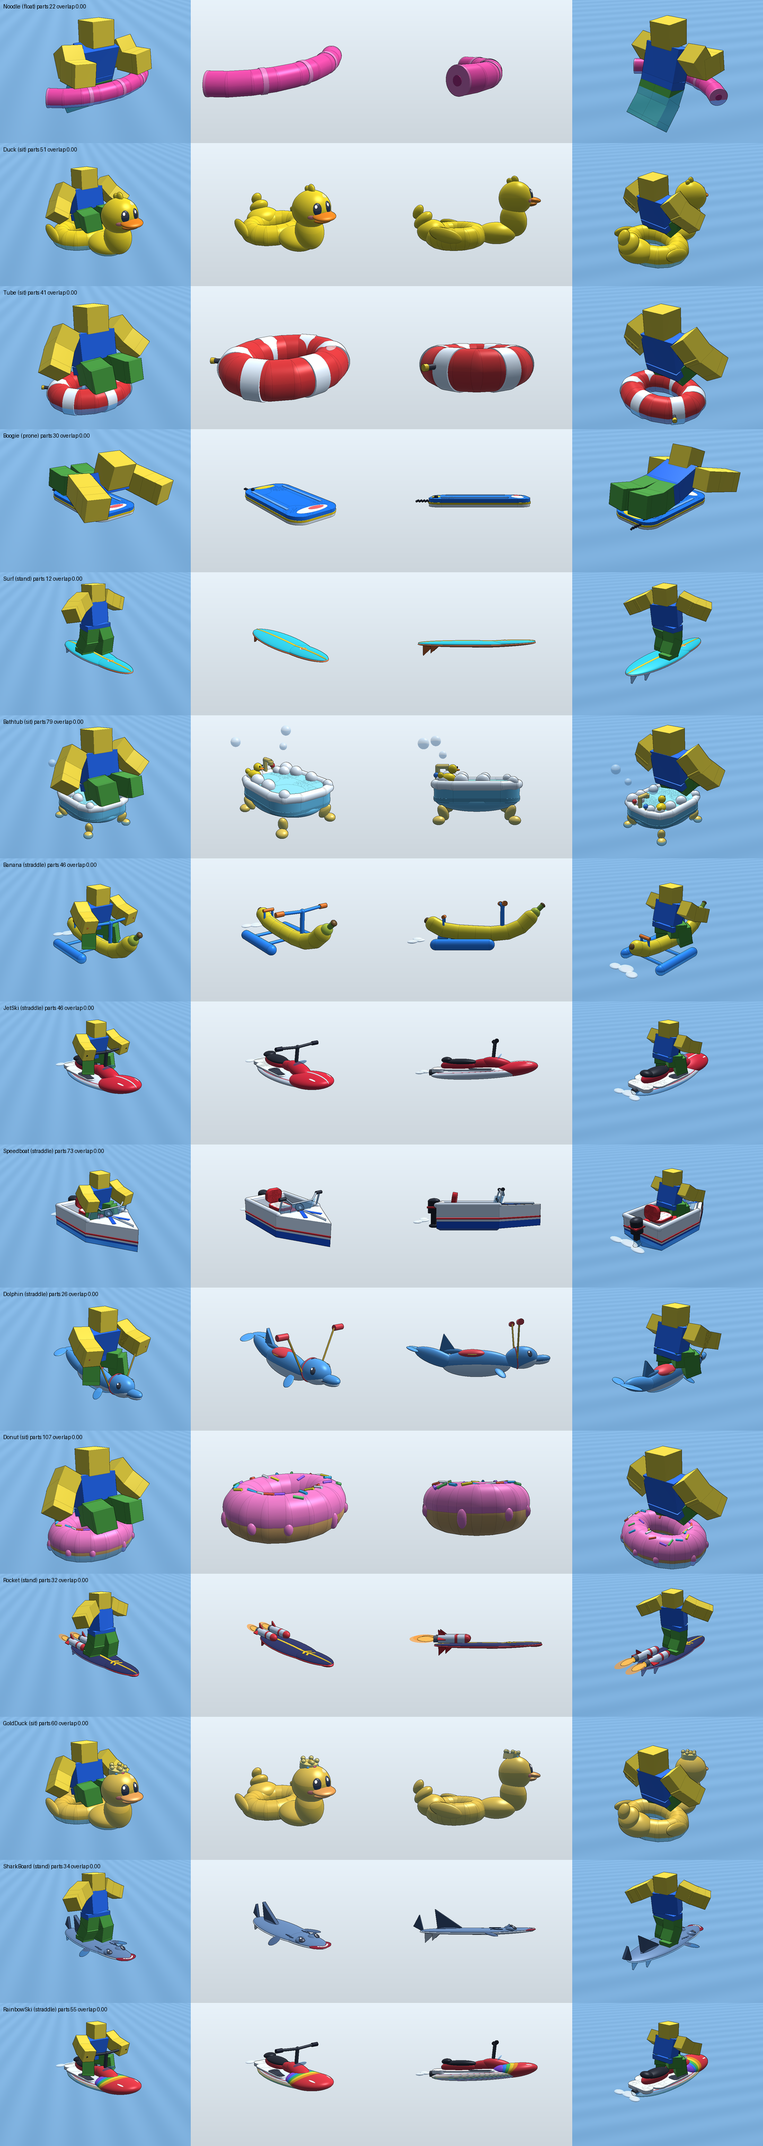
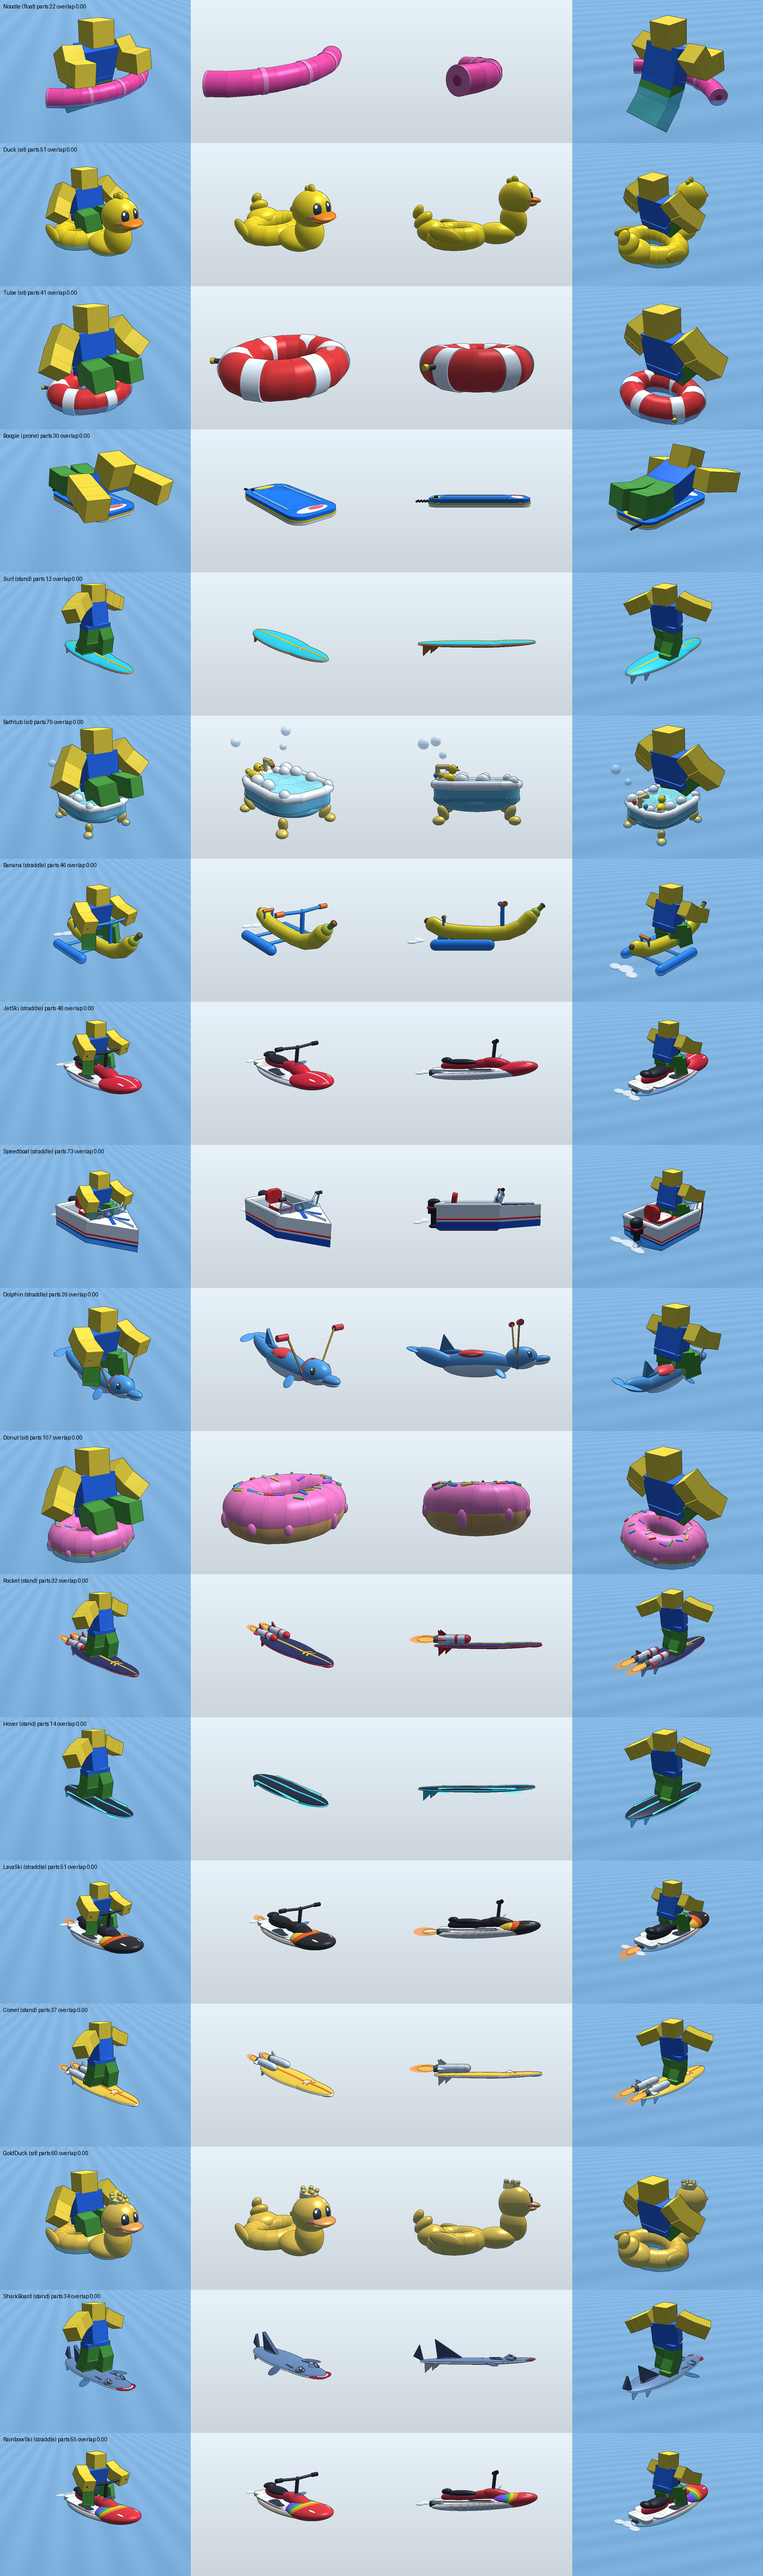
Three new zones, scaling rebirths, rebirth wakes, scarier early sharks
- Zones past the Abyss: Frozen Sea (60K), Volcano Vents (150K), Lost City
  (350K), each with 5 new creatures (45 in the Index), its own shark
  (Frost / Magma / King: tinted real rigs, part fallback), floor, water
  and scenery (icebergs + ice crystals, lava vents, marble columns)
- Rides after the Rocket: Hover Board, Lava Jet, Golden Comet
- Rebirth goal grows: The Abyss, then one zone further each time, then
  x2; HUD goal bar targets this run's rebirth speed
- Rebirth tiers color your wake for everyone (cyan, green, purple, pink,
  red); VIP now gets the promised gold wake + a VIP tag
- Sharks per zone: Coral Reef / Kelp Forest circle less and leap from
  further (aggro), the Lagoon a little gentler
- Pacing: Donut 70M, Rocket 200M, offline cash 7% for up to 4 h, so
  returning players don't buy two rides at once (audit rerun)
- Index zone tabs scroll sideways

Claude-Session: https://claude.ai/code/session_016U2BGmH486bstMbB3DLGUL

diff --git a/tools/balance/audit.py b/tools/balance/audit.py
@@ -16,20 +16,28 @@ then replace the guesses with real analytics after launch.
 """
 import json, math, random, statistics, sys
 
-ZONES = [  # id, gate, length, value
-    ("Lagoon", 0, 260, 1), ("Coral Reef", 100, 400, 5), ("Kelp Forest", 500, 560, 25),
-    ("Shipwreck Bay", 1000, 720, 120), ("Deep Blue", 5000, 1000, 600), ("The Abyss", 25000, 1400, 3000),
+ZONES = [  # id, gate, length, value, shark aggro
+    ("Lagoon", 0, 260, 1, 0.85), ("Coral Reef", 100, 400, 5, 1.3), ("Kelp Forest", 500, 560, 25, 1.25),
+    ("Shipwreck Bay", 1000, 720, 120, 1), ("Deep Blue", 5000, 1000, 600, 1), ("The Abyss", 25000, 1400, 3000, 1),
+    ("Frozen Sea", 60000, 1500, 15000, 1.1), ("Volcano Vents", 150000, 1600, 75000, 1.15), ("Lost City", 350000, 1800, 375000, 1.2),
 ]
 RIDES = [(0, 1), (30, 2), (500, 3), (2500, 4), (10000, 5), (40000, 7), (160000, 9), (600000, 12),
-         (2400000, 16), (9000000, 22), (35000000, 30), (130000000, 40)]
+         (2400000, 16), (9000000, 22), (70000000, 30), (200000000, 40),
+         (900000000, 55), (4000000000, 75), (18000000000, 100)]
 RIDE_NAMES = ["Pool Noodle", "Rubber Duck", "Inner Tube", "Boogie Board", "Surfboard", "Bathtub",
-              "Banana Boat", "Jet Ski", "Speedboat", "Dolphin", "Giant Donut", "Rocket Surfboard"]
+              "Banana Boat", "Jet Ski", "Speedboat", "Dolphin", "Giant Donut", "Rocket Surfboard",
+              "Hover Board", "Lava Jet", "Golden Comet"]
+REBIRTH_STEPS = [25000, 60000, 150000, 350000]
+
+
+def rebirth_speed(n):
+    return REBIRTH_STEPS[n] if n < len(REBIRTH_STEPS) else REBIRTH_STEPS[-1] * 2 ** (n - len(REBIRTH_STEPS) + 1)
 RAR = [("Common", 60, 1, 1), ("Uncommon", 25, 2.5, 2), ("Rare", 10, 6, 3), ("Epic", 4, 25, 4), ("Legendary", 1, 120, 5)]
 SLOT_PRICES = [400, 2000, 8000, 30000, 120000, 500000, 2000000, 8000000]
 LUCK, FRENZY_LUCK = 0.05, 0.30
 REBIRTH = 25000
 CYCLE, FIRST, WARN, HUNT = 80, 70, 5, 22
-OFFLINE_RATE, OFFLINE_HOURS = 0.1, 8
+OFFLINE_RATE, OFFLINE_HOURS = 0.07, 4
 
 PROFILES = {
     "ideal": dict(eff=1.35, idle=0.08, hide=0.55, eaten=0.10, first_catch=25, drill=22, drill_fail=0.15,
@@ -150,7 +158,7 @@ def simulate(profile, seed, minutes, sessions=None):
                 trip += left * 0.7  # wait it out on an island / the sand
             else:
                 luck += FRENZY_LUCK  # stays out for the luckier grabs
-                if rng.random() < P["eaten"]:
+                if rng.random() < min(0.9, P["eaten"] * z[4] ** 2):
                     eaten = True
                     trip += 4
         speed += RIDES[ride][1] * (1.5 ** rebirths) * trip
@@ -184,8 +192,8 @@ def simulate(profile, seed, minutes, sessions=None):
             c, s = index_reward(zi, ri)
             coins += c
             speed += s
-            if len(index) == 30:
-                mark("full Index (30/30)")
+            if len(index) == 5 * len(ZONES):
+                mark(f"full Index ({5 * len(ZONES)})")
         while ride + 1 < len(RIDES) and coins >= RIDES[ride + 1][0]:
             coins -= RIDES[ride + 1][0]
             ride += 1
@@ -201,16 +209,16 @@ def simulate(profile, seed, minutes, sessions=None):
         for i, zz in enumerate(ZONES):
             if speed >= zz[1] and i > 0:
                 mark(f"zone: {zz[0]}")
-        if speed >= REBIRTH and ride == len(RIDES) - 1:
+        if speed >= rebirth_speed(rebirths):
             mark("rebirth ready" if rebirths == 0 else f"rebirth {rebirths + 1} ready")
-            if rebirths < 5:
+            if rebirths < 6:
                 rebirths += 1
                 mark(f"rebirth {rebirths}")
                 speed, coins, ride = 0.0, 0.0, 0
         # Index hunting: once you've seen the Abyss, some trips go back to
         # older zones for the Legendaries you're missing
-        if len(index) >= 15:
-            mark(f"Index half (15/30)")
+        if len(index) >= 5 * len(ZONES) // 2:
+            mark("Index half")
     return ev
 
 

diff --git a/ANALYTICS.md b/ANALYTICS.md
@@ -30,7 +30,7 @@ Logged once per brand-new player.
 
 One session per rebirth run: player id plus rebirth number.
 
-Lagoon → Coral Reef → Kelp Forest → Shipwreck Bay → Deep Blue → The Abyss → Rebirth.
+Lagoon → Coral Reef → Kelp Forest → Shipwreck Bay → Deep Blue → The Abyss → Frozen Sea → Volcano Vents → Lost City → Rebirth. Each rebirth asks for one zone further (The Abyss, then Frozen Sea, Volcano Vents, Lost City), so later runs reach deeper steps.
 
 - **Target:** about 60% of runs that reach Kelp Forest should reach Shipwreck Bay.
 - A cliff before one zone means its speed gate is too high for the rides available by then.
@@ -39,7 +39,7 @@ Lagoon → Coral Reef → Kelp Forest → Shipwreck Bay → Deep Blue → The Ab
 
 ## 3. Rides: which purchase do players stall on?
 
-One session per run. The steps are the 12 coin rides in order; Robux rides aren't counted.
+One session per run. The steps are the 15 coin rides in order; Robux rides aren't counted.
 
 - **Target:** each step keeps 85%+ of the one before, up to the Jet Ski.
 - A sharp drop at one ride means its price jumps too far past what the tank earns at that point.
